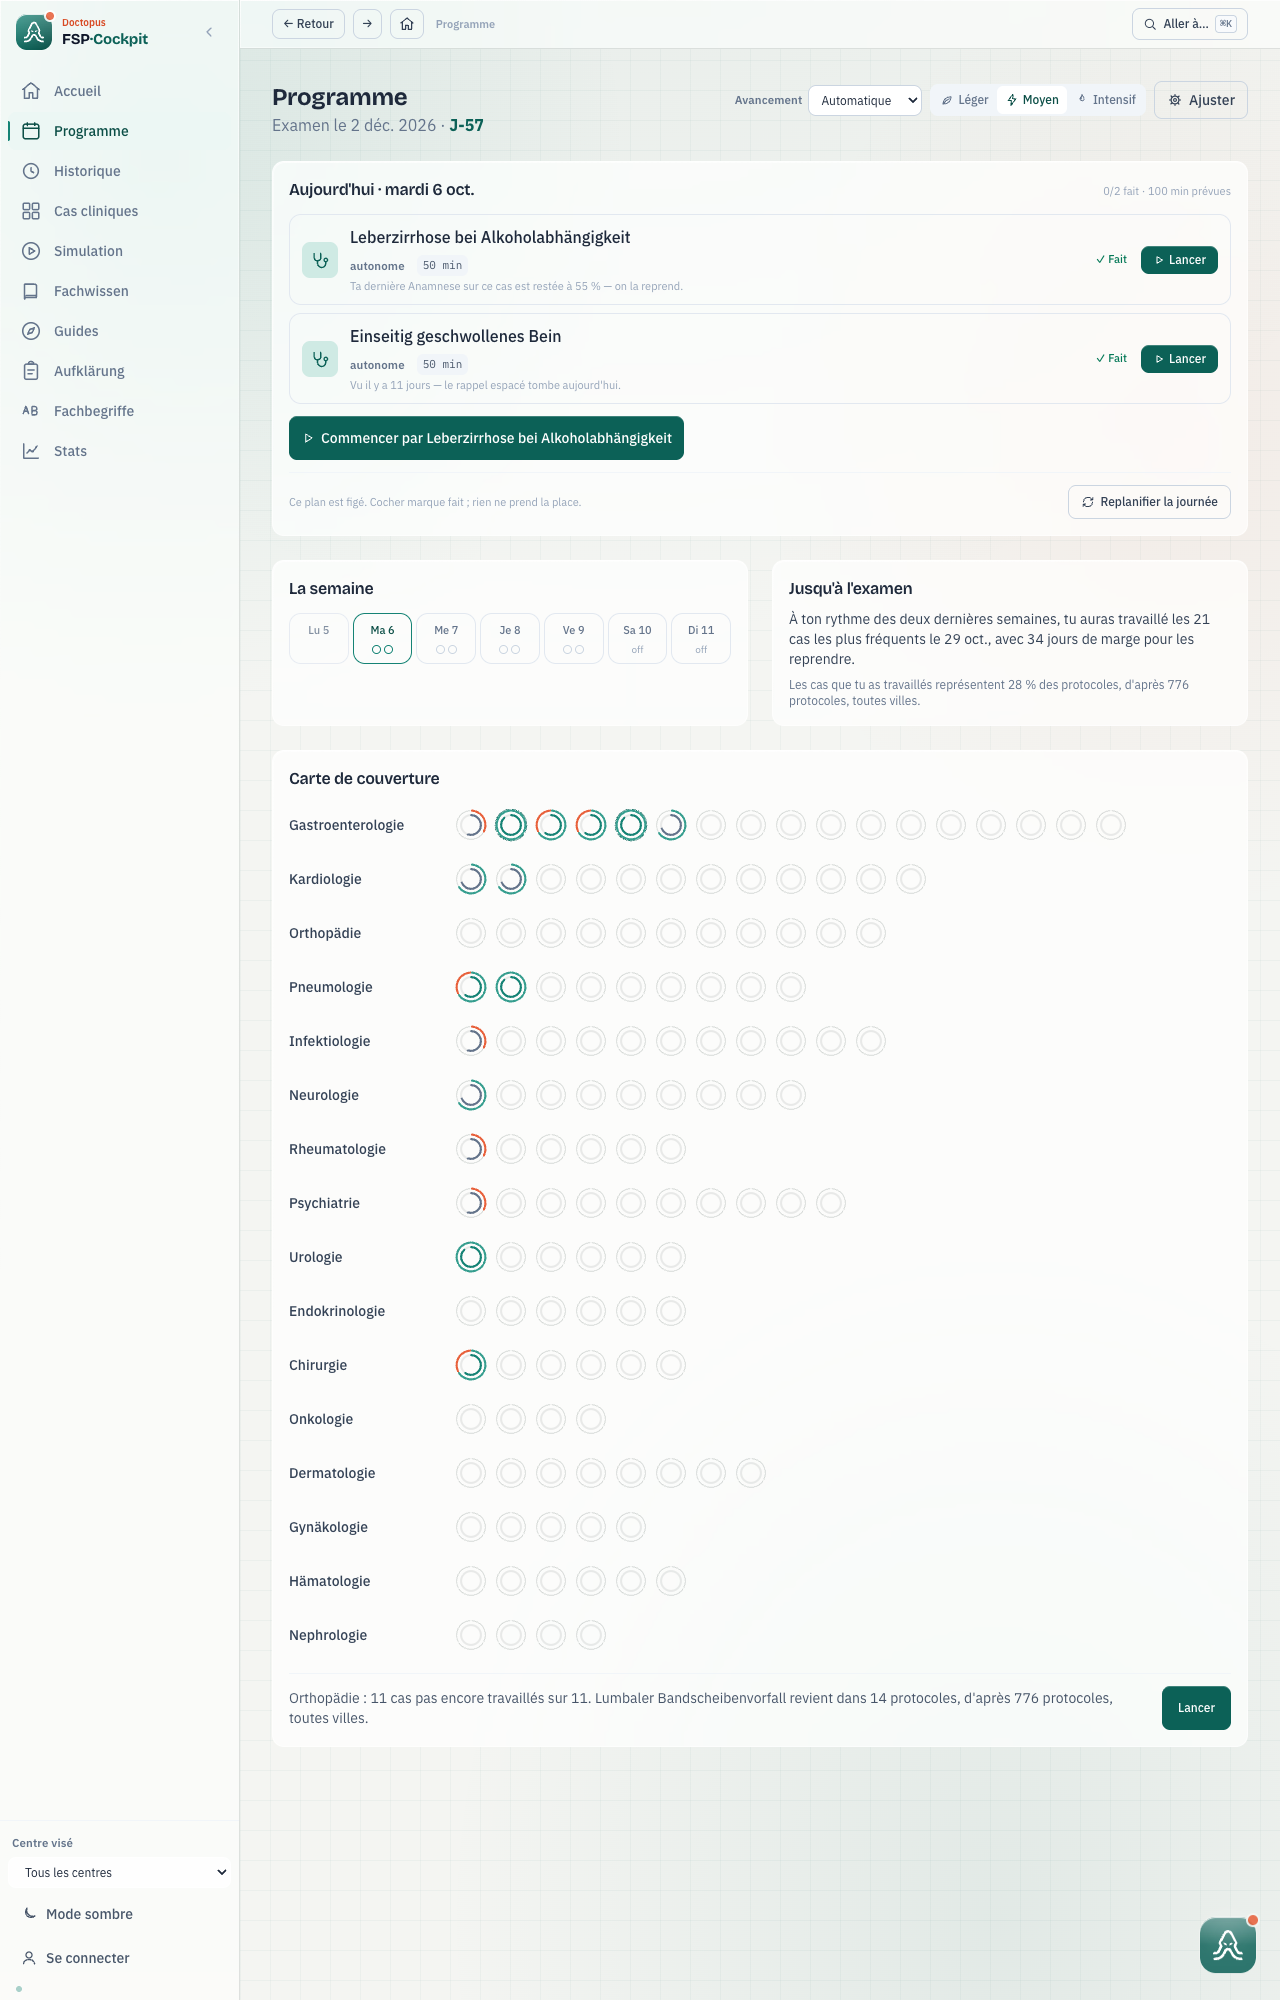
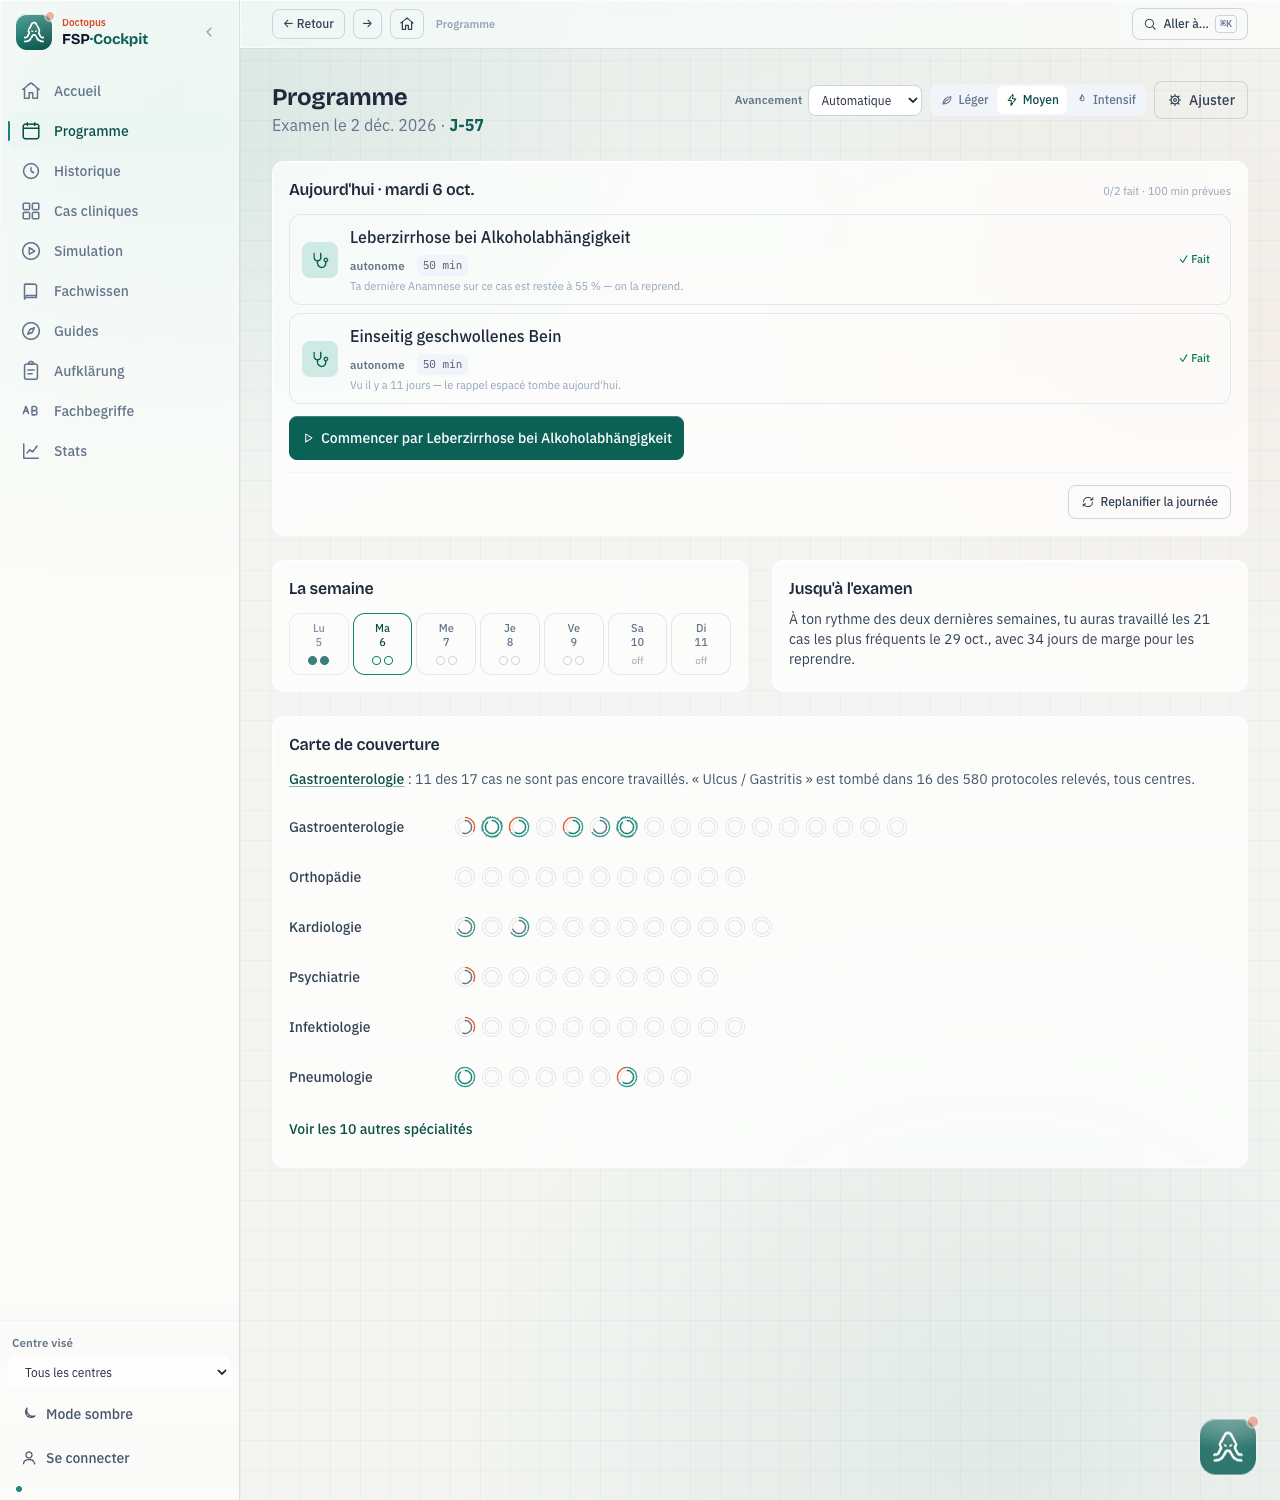
docs(s4-5): rapport — section du fixeur (revue direction-keeper), vérifications, nouvelles captures 390 et 1280

diff --git a/app/docs/reports/lead-s4-5.md b/app/docs/reports/lead-s4-5.md
@@ -6,6 +6,87 @@ Aucun serveur Supabase n'a été lancé, rien n'a été déployé.
 
 Sources : la proposition validée (`docs/superpowers/specs/2026-10-04-cas-entier-cadran.html`, « 4 · Programme »), ADR-0021, ADR-0022, `training-journal.md` §12.6, §12.7, §12.9, §13.5 et §13.6, et `DIRECTION-STYLE.md`.
 
+## 0. Fixeur — revue `direction-keeper` de `2d85868d` (prime sur les §1 à §7 ci-dessous)
+
+Corrections une par une, décisions de `main`. Commits : `bd95f860` (bloquant), `cb6c8f97` (majeurs et mineurs), `fb9f2b60`… voir `git log`. Le dernier est le garde-fou navigateur.
+
+### Bloquant : « 776 protocoles » était faux — corrigé
+- **Cause** : 776 était la somme des `Case.frequency` des 130 cas. Or plusieurs cas partagent une pathologie : Lumbaler et zervikaler Bandscheibenvorfall portent tous deux les 14 protocoles de « Bandscheibenvorfall (HWS/LWS) ». Par ailleurs, `Case.frequency` ne suit pas toujours la source (pAVK 20 contre 18, Gicht 22 contre 14, TVT 25 contre 8).
+- **Correctif dans le code** :
+  - `app/src/data/frequencesProtocoles.ts` est une copie de `apps/site/src/data/frequencies.json` : `n` = 580, les `n` par ville (Freiburg 91, Karlsruhe 169, Reutlingen 151, Stuttgart 182) et les 81 pathologies ;
+  - le même fichier contient `CAS_PATHOLOGIE`, qui relie **82 cas** à leur pathologie source. **Je l'ai relue à la main** ; la source ne compte pas les 48 autres cas, qui sont hors calcul. Cas partagés : Bandscheibenvorfall (2 cas), Diabetes mellitus (2), Schilddrüsenerkrankung (Hyper-, Hypothyreose, Struma), CED (Crohn, Colitis), malignes Lymphom (2) ;
+  - `frequencesProtocoles.test.ts` vérifie que la copie ne diverge pas de la source, et que chaque cas pointe une pathologie existante.
+- `couverturePonderee` :
+  - `base` = `n` de la source, ou `n` de la ville si elle est ventilée ;
+  - une pathologie pèse **une fois**, avec la couverture **moyenne** de ses cas. C'est mon choix (voir la question 2 de la sous-section « Hypothèses du fixeur ») ;
+  - sans aucune pathologie pesée, `pct` vaut `null`.
+- **Contrat** : §12.7 (cinq tailles), §12.9 (textes), §13.6 (formule, base, source copiée) et INV-66 réécrits, plus `PROJECTION_FENETRE_JOURS` ajouté au tableau §13.
+- **Tests** :
+  - INV-66 réécrit : base = `n` de la ville ; pathologie partagée comptée une fois ; sur la table réelle, `base ≤ 580` et `base` = `n` de la ville ; les deux Bandscheibenvorfall donnent `round(100 × 14 / 580)` et non le double ;
+  - EXAM_CLAIM et la propriété `0 ≤ pct ≤ 100` restent verts ;
+  - mutations : INV-66a (`n` de toute la source pour une ville), INV-66b (portée muette), **INV-66c** (pathologie additionnée deux fois) et **INV-66d** (base = somme des fréquences), toutes tuées.
+- **Affiché ailleurs en prod ?** Non. `couverturePonderee` n'était affichée par personne avant S4-5 : S4-1 n'en faisait que la mesure. Le cadran (S4-4) et l'accueil ne la lisent pas. Le seul chiffre de fréquence en prod est le `FreqBadge` des cartes de cas (« N apparitions dans les protocoles »), qui lit `Case.frequency` cas par cas, sans base. Il n'additionne rien, mais il montre `Case.frequency`, qui diverge de la source pour certains cas. **Non touché**, c'est du contenu : à signaler au pôle Contenu.
+
+### Majeurs
+1. **Carte** :
+   - l'encart est **au-dessus** de la carte ;
+   - seules les **6** spécialités les plus lourdes s'affichent (`VISIBLES`), puis « Voir les N autres spécialités » (bascule « Voir moins ») ;
+   - les points sont des `CaseDial` **24 px**, la nouvelle taille de `CaseDialSize`, avec son test ;
+   - **garde-fou** : `scripts/e2e/carteCouverture390.mjs`, une mesure dans le DOM sur les 130 cas réels, sans Supabase. Il sort à 0 avec 779 px pour un écran de 844 à 390 et 375 px, sans débord. Il sort à 1 sous la mutation `VISIBLES = 99` (1447 px) ;
+   - pour tenir à 375 px (852 px avant), la ligne de spécialité passe à `min-h-9` sous `sm` (36 px, la rangée de points sous elle reste cliquable) et les points sont espacés de 3 px ;
+   - test RTL structurel en plus : 6 spécialités, points de 24 px, aucun cadran ouvert ni repère quand la carte est fermée.
+2. **Une seule action « lancer »** dans Aujourd'hui :
+   - les lignes gardent « Fait » et perdent « Lancer » (`TaskList lancer={false}`) ;
+   - le titre ouvre la tâche (`a[data-cta]`) ;
+   - **la première tâche n'a pas de lien de titre**, parce que « Commencer par … » y mène déjà ;
+   - test RTL : jamais deux liens vers la même adresse, un seul `a.btn-primary` ;
+   - l'accueil est inchangé (`lancer` vaut `true` par défaut).
+3. **L'encart ne propose plus de jouer.** Le nom de la spécialité est un bouton qui l'ouvre dans la carte, en dévoilant la spécialité si elle est au-delà des 6. **`cas.demande` (« Ajouter demain ») : proposition pour Mehdi, non codée.** Ce serait un événement synchronisé (`subject_id` = jour visé) que `buildTasks(D)` lirait comme une tâche demandée, avec sa migration serveur.
+4. **« Jusqu'à l'examen » n'a plus qu'une phrase**, la projection. La phrase en pourcentage est retirée, et n'est déplacée nulle part. Sans projection, la section n'apparaît pas.
+5. **Texte de l'encart**, aligné sur le contrat §12.9 :
+   - « Psychiatrie : son seul cas n'est pas encore travaillé. « Depression » est tombé dans 30 des 580 protocoles relevés, tous centres. » ;
+   - « Gastroenterologie : 11 des 17 cas ne sont pas encore travaillés. « Ulcus / Gastritis » est tombé dans 16 des 580 protocoles relevés, tous centres. » (capturé) ;
+   - « Orthopädie : aucun des 11 cas n'est encore travaillé. » et « 1 des 9 cas n'est pas encore travaillé. » ;
+   - avec une ville : « … dans 11 des 182 protocoles relevés à Stuttgart. » (le 96 de l'exemple n'est pas le `n` de Stuttgart).
+6. **Pied d'Aujourd'hui** : « Ce plan est figé… » est supprimé. Il ne reste que « Replanifié à 14:02. », après une replanification (test).
+7. **La semaine montre le travail hors plan** : un point plein par cas joué ce jour-là hors du plan, une seule fois par cas, et l'étiquette dit « 1 cas joué hors plan ». Un jour off où l'on a joué n'est plus « off ». Oracle, test RTL et mutation `S45-semaine-hors-plan`.
+
+### Mineurs
+- Semaine : `<span className="sr-only">` à la place de l'`aria-label` du `<li>`.
+- `useUi.specialiteOuverte` retient la dernière spécialité ouverte. Elle est persistée dans `localStorage` (`fsp-programme-specialite`), comme `fsp-center`, et une spécialité retenue au-delà des 6 est dévoilée.
+- En-tête : le `select` d'avancement porte `aria-label="Avancement"` (le libellé visible reste masqué sous `sm`).
+
+### Hypothèses du fixeur (à relire)
+1. **Le nom de la pathologie est cité entre guillemets** : « « Bandscheibenvorfall (HWS/LWS) » est tombé dans 14 des 580… ». Le texte de `main` écrit « Le Bandscheibenvorfall est tombé… ». La source ne donne ni article ni genre, et « Le Leberzirrhose » ou « La Depression est tombé » seraient faux. Les guillemets se lisent « le sujet » et gardent l'accord au masculin. Ajouter un article par pathologie à la table est possible si la direction le veut.
+2. **Pathologie partagée** : son poids compte une fois, multiplié par la couverture **moyenne** de ses cas. C'est une lecture conservatrice : jouer la LWS ne couvre pas la HWS. L'autre lecture serait la couverture maximale.
+3. **Ordre des 6 spécialités** : poids des pathologies **distinctes** de la spécialité, dans la ville si elle est ventilée.
+4. La phrase « 21 cas les plus fréquents » de la projection compte toujours `freq ≥ SEUIL_FREQUENT` sur `Case.frequency`, inchangé depuis S4-2. Elle ne cite ni base ni protocoles, mais elle hérite de l'écart entre `Case.frequency` et la source, qui revient au pôle Contenu.
+5. **Tests écrits après le code dans cette passe.** Leur mordant est prouvé par les mutations : 15 dans le harnais et 5 à la main sur le RTL (`VISIBLES = 99`, « Lancer » sur les lignes, second lien, points de 36 px, mémoire locale), toutes rouges.
+
+### Vérifications du fixeur (codes de sortie, sur `fb9f2b60` + le rapport)
+
+| Vérification | Résultat |
+|---|---|
+| `tsc -b --noEmit` | 0 |
+| `vitest run --dir src --maxWorkers=2` | 0, 183 fichiers, 1907 tests |
+| `npm run test:c6 -- --maxWorkers=2` | 0, 15 fichiers, 165 tests |
+| `npm run build` | 0 |
+| les 17 validateurs bloquants, `checkTermRegister --require-all`, `checkBudgetFloor origin/main` | tous à 0 |
+| `parcours-mutations.mjs` complet | 0, baseline vert, **148/148 tuées** |
+| `scripts/e2e/carteCouverture390.mjs` | 0 : 779 px pour un écran de 844, à 390 et 375 px ; 1 sous `VISIBLES = 99` |
+| `git merge-tree --write-tree origin/main HEAD` | 0, sans conflit, contre `origin/main` `98ea2e95` |
+
+Les sondes du candidat C6 (`parcours-lib.mjs`, `parcours-actes.mjs`) ouvrent une ligne :
+- par son titre (`a[data-cta]`) ;
+- ou, pour la première tâche, par « Commencer par … » (`a[data-commencer]`, qui porte aussi `data-cta`) ;
+- ou, sur l'accueil, par son bouton.
+
+`programmeInvariants.mjs` trouve la spécialité par `data-specialite`, après « Voir les N autres » si besoin. Ces trois scripts n'ont passé que `node --check` ici : **la passe navigateur de `main` les rejoue.**
+
+Captures refaites : `s4-5-programme-390.png` et `s4-5-programme-1280.png`. Le serveur `vite` et le navigateur sont arrêtés.
+
+---
+
 ## 1. Ce que fait la page, dans l'ordre
 
 | Bloc | Ce qui est rendu | Composants réutilisés |
